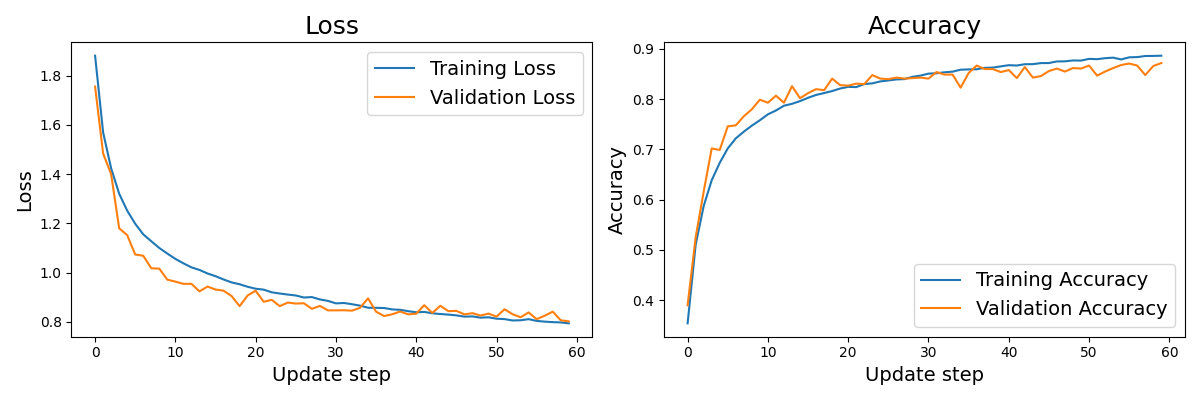
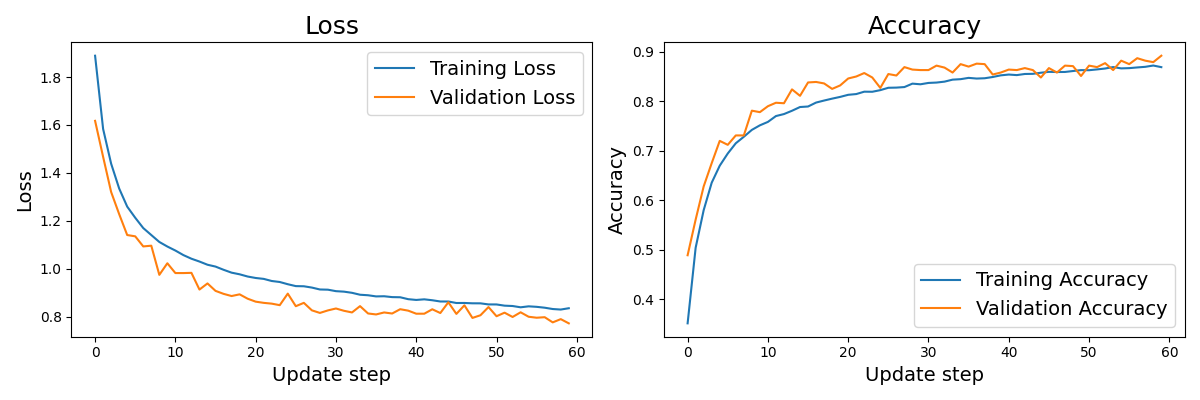
feat: label smoothing + learning schedulers

diff --git a/src/main.py b/src/main.py
@@ -20,10 +20,10 @@ def trainNet():
     }
     LR_params = {
         'eta': 1e-2,
-        'scheduler': False,
-        'scheduler_type': "cosine"} # "step", "cosine", ...
+        'scheduler': True,
+        'scheduler_type': "step"} # "step", "cosine", ...
     RE_params = {
-        'dropout': True, 'dropout_rates': [0.2, 0.3, 0.4, 0.5], 
+        'dropout': True, 'dropout_rates': [0.3, 0.4, 0.5, 0.5], 
         'augementation': True, 'flip_prob': 0.5, 'shift_max': 0.1,
         'label_smoothing': False, 'smoothing_factor': 0.1}
     

diff --git a/results.md b/results.md
@@ -95,19 +95,19 @@ Different combinations of previously seen best results:
 | **Combined 7** | 83.85% | 0.01 | 0.2 | 0.5| +/- 0.1 | longmodel 7 (60 epoch, 0.01 lr)
 | **Combined 8** | 86.48% | 0.001 | 0.2 | 0.5| +/- 0.1 | longmodel 8 (60 epoch, 0.01 lr) Higher dropout, crop
 | **Combined 9** | 86.68% | 0.0001 | 0.2 | 0.5| +/- 0.1 | longmodel 9 (80 epoch, 0.01 lr) Higher dropout, crop
-| **Combined 10** | 86.98% | 0.0001 | 0.2 | 0.5| +/- 0.1 | longmodel 9 (60 epoch, 0.01 lr) corrected augmentation
-| **Combined 10** | 86.98% | 0.0001 | 0.2 | 0.5| +/- 0.1 | longmodel 9 (60 epoch, 0.01 lr) lower lambda
+| **Combined 10** | 86.98% | 0.0001 | 0.2 | 0.5| +/- 0.1 | longmodel 10 (60 epoch, 0.01 lr) corrected augmentation - FINAL
+| **Combined 11** | 86.80% | 0.0001 | 0.2 | 0.5| +/- 0.1 | longmodel 11 (60 epoch, 0.01 lr) lower droput
 
 ## Further improvements
 
 ### Label smoothing
 | Model | Performance | Epochs | Lambda | lr | label smoothing |
 | :--- | :--- | :--- | :--- | :--- | :--- |
-| **Model 1** | 86.71% | 80 | 0.001 | 0.01 | 0.1 |
+| **Model 1** | 87.23% | 80 | 0.001 | 0.01 | 0.1 |
 
 ### Learning rate scheduling
 | Model | Performance | Epochs | Lambda | lr |
 | :--- | :--- | :--- | :--- | :--- | :--- |
-| **Step** | 86.71% | 80 | 0.001 | 0.01 |
+| **Step** | -% | 80 | 0.001 | 0.01 |
 
 ###
